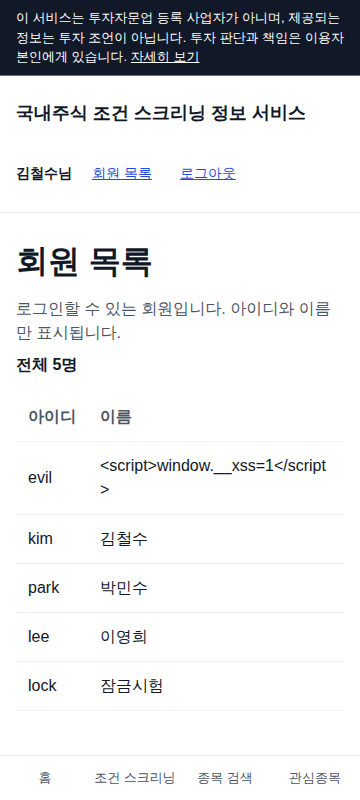
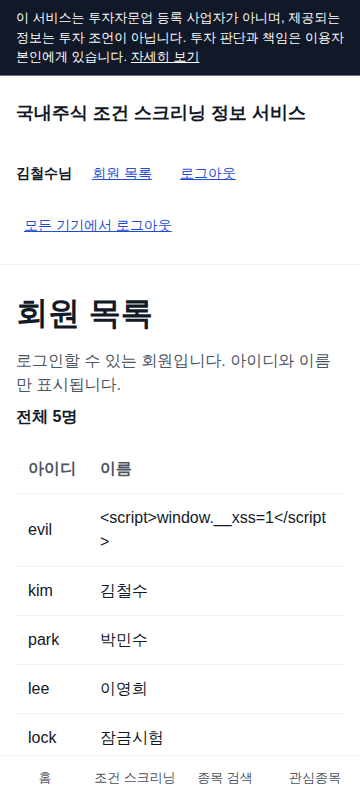
feat(auth): 모든 기기에서 로그아웃 버튼 (DEC-071)
Claude-Session: https://claude.ai/code/session_01QuiKfc1fybZYPtPuWCxdtT

diff --git a/frontend/src/app/auth/logout-all/route.ts b/frontend/src/app/auth/logout-all/route.ts
@@ -1,0 +1,33 @@
+import { cookies } from "next/headers";
+import { apiLogoutAll } from "@/lib/auth/apiClient";
+import { authConfigProblem, authEnabled, sessionCookieName, sessionSecret } from "@/lib/auth/config";
+import { clearSessionCookie, json, nowSeconds } from "@/lib/auth/http";
+import { isSameOriginRequest } from "@/lib/auth/origin";
+import { verifySession } from "@/lib/auth/session";
+
+export const dynamic = "force-dynamic";
+
+/**
+ * "모든 기기에서 로그아웃"(DEC-071): 이 회원의 서버 쪽 세션을 전부 취소하고(30일 유지 로그인 포함) 이 브라우저의 쿠키도 지운다.
+ * 일반 로그아웃과 달리 **서버 취소가 확인된 경우에만** 쿠키를 지우고 성공을 알린다 — 실패했는데 성공처럼 보이면 다른 기기가 로그인된 채 남기 때문이다.
+ * 서버 장애면 503(로그인은 그대로 두어 다시 시도할 수 있게 한다). 로그인하지 않았거나 이미 취소·만료된 세션이면 401.
+ * 같은 사이트 화면에서 보낸 요청만 받는다.
+ */
+export async function POST(request: Request) {
+  if (!authEnabled()) return json({ ok: false, code: "NOT_FOUND" }, 404);
+  if (authConfigProblem()) return json({ ok: false, code: "MISCONFIGURED" }, 503);
+  if (!isSameOriginRequest(request.headers)) return json({ ok: false, code: "FORBIDDEN" }, 403);
+  const store = await cookies();
+  const session = verifySession(store.get(sessionCookieName())?.value, sessionSecret(), nowSeconds());
+  if (!session) return json({ ok: false, code: "AUTH_REQUIRED" }, 401);
+  const count = await apiLogoutAll(session.uid, session.sid);
+  if (count === "invalid") {
+    const gone = json({ ok: false, code: "AUTH_REQUIRED" }, 401); // 이미 취소·만료된 로그인: 쿠키만 정리한다
+    clearSessionCookie(gone);
+    return gone;
+  }
+  if (count === null) return json({ ok: false, code: "SERVICE_UNAVAILABLE" }, 503);
+  const response = json({ ok: true, revoked_count: count });
+  clearSessionCookie(response);
+  return response;
+}

diff --git a/frontend/src/components/MemberMenu.tsx b/frontend/src/components/MemberMenu.tsx
@@ -13,6 +13,8 @@ const AUTH_BUILD = process.env.NEXT_PUBLIC_AUTH_ENABLED === "true";
 
 export function MemberMenu() {
   const [name, setName] = useState<string | null>(null);
+  const [notice, setNotice] = useState<string | null>(null);
+  const [busy, setBusy] = useState(false);
 
   useEffect(() => {
     if (!AUTH_BUILD) return undefined;
@@ -40,6 +42,25 @@ export function MemberMenu() {
     }
   }
 
+  async function logoutAll() {
+    if (busy) return;
+    if (!window.confirm(copy.auth.logoutAllConfirm)) return; // 실수로 누르는 것을 막는 확인
+    setBusy(true);
+    setNotice(null);
+    try {
+      const response = await fetch("/auth/logout-all", { method: "POST", credentials: "same-origin" });
+      if (response.ok) {
+        window.location.assign(new URL("/login", window.location.origin).toString());
+        return; // 화면이 바뀌므로 잠금은 그대로 둔다
+      }
+      // 서버 취소가 확인되지 않으면 성공처럼 보이지 않게 하고 로그인은 그대로 둔다(다시 시도 가능)
+      setNotice(response.status === 401 ? copy.auth.logoutAllInvalid : copy.auth.logoutAllFailed);
+    } catch {
+      setNotice(copy.auth.logoutAllFailed);
+    }
+    setBusy(false);
+  }
+
   if (!AUTH_BUILD || name === null) return null;
   return (
     <div className="member-menu" role="group" aria-label={copy.auth.memberMenuLabel}>
@@ -53,6 +74,14 @@ export function MemberMenu() {
       <button type="button" className="member-menu__logout" onClick={logout}>
         {copy.auth.logout}
       </button>
+      <button type="button" className="member-menu__logout" onClick={logoutAll} disabled={busy}>
+        {busy ? copy.auth.logoutAllBusy : copy.auth.logoutAll}
+      </button>
+      {notice ? (
+        <p className="member-menu__notice" role="alert">
+          {notice}
+        </p>
+      ) : null}
     </div>
   );
 }

diff --git a/frontend/src/lib/auth/apiClient.ts b/frontend/src/lib/auth/apiClient.ts
@@ -27,6 +27,7 @@ export type MembersResult =
 
 const LOGIN_TIMEOUT_MS = 65_000;
 const LOGOUT_TIMEOUT_MS = 8_000;
+const LOGOUT_ALL_TIMEOUT_MS = 30_000; // 잠든 API가 깨어나는 시간을 기다린다(실패를 성공으로 보이지 않기 위해 재시도는 하지 않는다)
 
 function apiBase(): string {
   return (process.env.NEXT_PUBLIC_API_BASE_URL ?? "").trim().replace(/\/+$/, "");
@@ -113,6 +114,25 @@ export async function apiLogout(uid: string, sessionId: string): Promise<boolean
     return response.status === 200;
   } catch {
     return false;
+  }
+}
+
+/** "모든 기기에서 로그아웃": 이 회원의 모든 서버 세션을 취소한다. 취소한 건수를 돌려주고, 이미 취소·만료된 세션이면 "invalid", 서버 장애는 null. 재시도하지 않는다(결과를 사용자에게 그대로 알린다). */
+export async function apiLogoutAll(uid: string, sessionId: string): Promise<number | "invalid" | null> {
+  try {
+    const response = await fetch(`${apiBase()}/api/v1/internal/auth/logout-all`, {
+      method: "POST",
+      headers: internalHeaders({ "X-Auth-User": uid }),
+      body: JSON.stringify({ user_id: uid, session_id: sessionId }),
+      cache: "no-store",
+      signal: AbortSignal.timeout(LOGOUT_ALL_TIMEOUT_MS),
+    });
+    if (response.status === 401) return "invalid";
+    if (response.status !== 200) return null;
+    const count = (((await readJson(response))?.data ?? null) as Record<string, unknown> | null)?.revoked_count;
+    return typeof count === "number" && Number.isInteger(count) && count >= 0 ? count : null;
+  } catch {
+    return null;
   }
 }
 

diff --git a/frontend/src/app/globals.css b/frontend/src/app/globals.css
@@ -2700,6 +2700,19 @@ main {
   font-weight: 600;
 }
 
+.member-menu__notice {
+  flex-basis: 100%;
+  margin: 0;
+  color: var(--color-semantic-error);
+  font-size: 13px;
+  line-height: 1.5;
+}
+
+.member-menu__logout:disabled {
+  opacity: 0.7;
+  cursor: progress;
+}
+
 .member-menu__link,
 .member-menu__logout {
   display: inline-flex;

diff --git a/tests/integration/test_auth_api_db.py b/tests/integration/test_auth_api_db.py
@@ -535,3 +535,60 @@ def test_deleting_member_removes_sessions(db, api):
     assert _admin(db, "SELECT count(*) FROM auth.user_sessions")[0][0] == 1
     _admin(db, "DELETE FROM auth.app_users WHERE username = 'kim'")
     assert _admin(db, "SELECT count(*) FROM auth.user_sessions")[0][0] == 0
+
+
+# ------------------------------------------------------------------ 모든 기기에서 로그아웃 (DEC-071)
+LOGOUT_ALL = "/api/v1/internal/auth/logout-all"
+
+
+def test_logout_all_revokes_every_session_of_the_member_only(db, api):
+    _add_user(db, "kim")
+    _add_user(db, "lee", "이영희")
+    a = _login_data(api, remember=True)
+    b = _login_data(api, remember=True)
+    c = _login_data(api)  # 8시간 세션도 포함
+    other = _login_data(api, username="lee", remember=True)
+    r = api.post(LOGOUT_ALL, json={"user_id": a["user_id"], "session_id": a["session_id"]}, headers=H)
+    assert r.status_code == 200 and r.json()["data"] == {"revoked_count": 3}
+    for s in (a, b, c):
+        assert _check(api, s["user_id"], s["session_id"]) is False
+        assert _sess_row(db, s["session_id"])[3] is True
+    assert _check(api, other["user_id"], other["session_id"]) is True  # 다른 회원은 그대로
+    # 새로 로그인하면 다시 쓸 수 있다
+    again = _login_data(api, remember=True)
+    assert _check(api, again["user_id"], again["session_id"]) is True
+
+
+def test_logout_all_needs_a_live_session_of_that_member(db, api):
+    _add_user(db, "kim")
+    _add_user(db, "lee", "이영희")
+    a = _login_data(api, remember=True)
+    b = _login_data(api, remember=True)
+    lee = _login_data(api, username="lee")
+    # 남의 세션 id를 내 id로 제시 → 거부, 아무것도 취소되지 않는다
+    r = api.post(LOGOUT_ALL, json={"user_id": a["user_id"], "session_id": lee["session_id"]}, headers=H)
+    assert r.status_code == 401 and r.json()["error"]["code"] == "INVALID_SESSION"
+    assert _check(api, a["user_id"], a["session_id"]) is True and _check(api, lee["user_id"], lee["session_id"]) is True
+    # 없는 세션
+    assert api.post(LOGOUT_ALL, json={"user_id": a["user_id"], "session_id": "99999999-9999-4999-8999-999999999999"}, headers=H).status_code == 401
+    # 이미 취소된 세션(로그아웃된 쿠키)으로는 다른 기기를 끊지 못한다
+    api.post(LOGOUT, json={"user_id": a["user_id"], "session_id": a["session_id"]}, headers=H)
+    assert api.post(LOGOUT_ALL, json={"user_id": a["user_id"], "session_id": a["session_id"]}, headers=H).status_code == 401
+    assert _check(api, b["user_id"], b["session_id"]) is True
+    # 만료된 세션·비활성 회원
+    _admin(db, "UPDATE auth.user_sessions SET created_at = now() - interval '31 days', expires_at = now() - interval '1 day' WHERE session_id = CAST(:s AS uuid)", s=b["session_id"])
+    assert api.post(LOGOUT_ALL, json={"user_id": b["user_id"], "session_id": b["session_id"]}, headers=H).status_code == 401
+    c = _login_data(api)
+    _admin(db, "UPDATE auth.app_users SET is_active = false WHERE username = 'kim'")
+    assert api.post(LOGOUT_ALL, json={"user_id": c["user_id"], "session_id": c["session_id"]}, headers=H).status_code == 401
+
+
+def test_logout_all_validation_and_internal_token(db, api):
+    _add_user(db, "kim")
+    a = _login_data(api)
+    body = {"user_id": a["user_id"], "session_id": a["session_id"]}
+    assert api.post(LOGOUT_ALL, json=body).status_code == 401  # 내부 토큰 필수
+    assert api.post(LOGOUT_ALL, json=body, headers={"X-Internal-Token": "wrong"}).status_code == 401
+    for bad in ({}, {"user_id": a["user_id"]}, {"session_id": a["session_id"]}, {**body, "extra": 1}, {"user_id": "x", "session_id": "y"}):
+        assert api.post(LOGOUT_ALL, json=bad, headers=H).status_code == 400, bad
+    assert _check(api, a["user_id"], a["session_id"]) is True  # 거부된 요청은 아무것도 바꾸지 않는다

diff --git a/services/public_api/api/internal_auth.py b/services/public_api/api/internal_auth.py
@@ -3,6 +3,7 @@
 - `POST /api/v1/internal/auth/login` : 아이디·비밀번호 확인. 실패는 이유와 관계없이 같은 401.
 - `POST /api/v1/internal/auth/session-check` : 이 세션이 취소·만료되지 않았고 회원이 아직 활성인지(웹이 5분마다 확인).
 - `POST /api/v1/internal/auth/logout` : 이 세션 하나를 서버에서 취소(DEC-070).
+- `POST /api/v1/internal/auth/logout-all` : 이 회원의 모든 세션 취소(DEC-071). 요청한 세션이 살아 있을 때만.
 - `GET  /api/v1/internal/members` : 로그인 가능한 회원(활성)의 아이디·이름 목록.
 
 모든 경로는 **강제 스위치와 무관하게** 항상 내부 토큰을 요구한다(로컬에서 스위치가 꺼져 있어도 열려 있지 않다).
@@ -27,6 +28,7 @@ from services.public_api.auth.service import (
     check_session_user,
     create_session,
     list_active_members,
+    revoke_all_sessions,
     revoke_session,
 )
 from services.public_api.auth.throttle import allow_login_attempt
@@ -36,6 +38,7 @@ from services.public_api.errors import ApiError
 from services.public_api.schemas.auth import (
     LoginData,
     LoginRequest,
+    LogoutAllData,
     LogoutData,
     LogoutRequest,
     MemberItem,
@@ -117,6 +120,14 @@ def session_check(body: SessionCheckRequest, db: Session = Depends(get_auth_db))
 @router.post("/auth/logout", response_model=Envelope[LogoutData])
 def logout(body: LogoutRequest, db: Session = Depends(get_auth_db)) -> Envelope[LogoutData]:
     return Envelope[LogoutData](meta=_meta(), data=LogoutData(revoked=revoke_session(db, body.user_id, body.session_id)))
+
+
+@router.post("/auth/logout-all", response_model=Envelope[LogoutAllData])
+def logout_all(body: LogoutRequest, db: Session = Depends(get_auth_db)) -> Envelope[LogoutAllData]:
+    count = revoke_all_sessions(db, body.user_id, body.session_id)
+    if count is None:  # 이미 취소·만료된 세션이거나 남의 세션: 아무것도 하지 않는다
+        raise ApiError(status_code=401, code="INVALID_SESSION", message="유효한 로그인이 아닙니다.")
+    return Envelope[LogoutAllData](meta=_meta(), data=LogoutAllData(revoked_count=count))
 
 
 @router.get("/members", response_model=Envelope[MembersData])

diff --git a/services/public_api/auth/service.py b/services/public_api/auth/service.py
@@ -213,6 +213,28 @@ def revoke_session(session: Session, user_id: str, session_id: str) -> bool:
     return done is not None
 
 
+def revoke_all_sessions(session: Session, user_id: str, session_id: str) -> int | None:
+    """"모든 기기에서 로그아웃"(DEC-071): 이 회원의 유효한 세션을 전부 취소하고 취소한 건수를 돌려준다.
+    요청한 세션 자체가 이 회원의 살아 있는 세션일 때만 실행한다(이미 취소·만료된 쿠키로는 못 한다). 아니면 None."""
+    live = session.execute(
+        text(
+            "SELECT 1 FROM auth.user_sessions s JOIN auth.app_users u ON u.user_id = s.user_id "
+            "WHERE s.session_id = CAST(:sid AS uuid) AND s.user_id = CAST(:uid AS uuid) "
+            "AND s.revoked_at IS NULL AND s.expires_at > now() AND u.is_active"
+        ),
+        {"uid": user_id, "sid": session_id},
+    ).first()
+    if live is None:
+        session.rollback()
+        return None
+    result = session.execute(
+        text("UPDATE auth.user_sessions SET revoked_at = now() WHERE user_id = CAST(:uid AS uuid) AND revoked_at IS NULL"),
+        {"uid": user_id},
+    )
+    session.commit()
+    return result.rowcount or 0
+
+
 def list_active_members(session: Session, limit: int = 500) -> list[dict[str, str]]:
     """회원 목록: 활성 회원의 아이디·이름만(비밀번호 해시·접속 시각·상태 등은 읽지도 않는다)."""
     rows = (

diff --git a/services/public_api/schemas/auth.py b/services/public_api/schemas/auth.py
@@ -46,6 +46,10 @@ class SessionCheckData(BaseModel):
     display_name: str | None = None
 
 
+class LogoutAllData(BaseModel):
+    revoked_count: int  # 이번 요청으로 취소한 세션 수(현재 기기 포함)
+
+
 class MemberItem(BaseModel):
     username: str
     display_name: str

diff --git a/docs/harness/decisions.md b/docs/harness/decisions.md
@@ -81,3 +81,4 @@
 | DEC-068 | 2026-10-05 | 운영 투자자별 수급 표시(DEC-049/054 후속) | 사용자가 운영 서버에서도 투자자 항목을 보길 원함. 조사 결과: KRX 이용약관은 자동 수집·복제·배포를 금지하고 2025-12-27부터 정보데이터시스템이 로그인 회원제(Data Marketplace)로 바뀌어 스크래핑 불가. 증권사(KIS) 값을 다른 회원에게 보여 주는 것은 재배포 해당 여부 약관 미확인. | **사용자가 방안 4(소유자 본인 한 명만 보기) 선택.** 소유자 PC가 본인 KIS 앱키로 수집(`scripts/collect_investor_flow.py`)→Neon `public_serving.investor_flow_daily`(0016)→API `GET /api/v1/internal/owner/stocks/{code}/investor`(내부 토큰+소유자 아이디 확인)→웹은 소유자 로그인일 때만 표(다른 회원은 "준비 중" 유지). 앱키는 PC에만 둔다. 제3자 제공이 없어 약관 위험을 피한다. 당일 행은 KST 20:00 이후에만 적재(확정 시각 미확인). 값 단위(주·백만원)는 DEC-054와 같이 실제 앱 대조 필요. | 사용자 응답 (2026-10-05, "4번으로 진행해 주세요") | Medium | `docs/ops/login-rollout-runbook.md` §7, `docs/qa/2026-10-05-owner-investor-test-result.md` |
 | DEC-069 | 2026-10-05 | 로그인 화면 "아이디/비밀번호 자동 저장" 요청(DEC-067 보완) | 사용자가 로그인 정보 자동 저장 기능을 요청. 앱이 비밀번호를 저장하면(localStorage·쿠키 등 JS가 읽는 저장소) XSS 한 번으로 탈취되고, 서버가 비밀번호 원문을 되돌려 줄 수도 없다(argon2 해시). | **아이디만 "아이디 저장" 체크박스로 localStorage에 저장하고, 비밀번호는 브라우저·OS 비밀번호 관리자에 맡긴다**: ① 폼 `autocomplete`(username/current-password) ② 로그인 성공 시 Credential Management API(`PasswordCredential`)로 저장을 제안(최대 1초 대기, 미지원 브라우저는 무시) ③ 저장 아이디는 형식 검증·변조 값 삭제. 앱 쪽 비밀번호 저장·"자동 로그인(세션 연장)"은 하지 않았다(세션 8시간·5분 재확인 결정 DEC-067 유지). 자동 로그인이 필요하면 별도 결정. | 사용자 요청(2026-10-05) + 보안 판단(20년차 기준) | Low | `frontend/src/lib/auth/savedUsername.ts`, `frontend/src/components/LoginForm.tsx`, `docs/qa/2026-10-05-login-test-result.md` §5 |
 | DEC-070 | 2026-10-05 | 자동 로그인 "로그인 상태 유지 30일"(DEC-067·069 보완) | 사용자가 "자동 로그인 30일 기준"을 요청. 서명만 있는 상태 없는 쿠키를 30일로 늘리면 로그아웃·분실·탈취 때 **취소할 수 없다**(DEC-067의 8시간 한계가 30일로 커짐). | **선택 사항(기본 해제 체크박스 "로그인 상태 유지(30일)") + 서버 쪽 세션 목록으로 구현.** ① 체크 시에만 절대 30일(사용해도 연장 없음), 미체크는 기존 8시간 ② 로그인마다 `auth.user_sessions` 행(0017) 생성, 쿠키(v2)에 `sid`·`rm` ③ 5분마다 API가 "세션 미취소·미만료 + 회원 활성"을 확인 ④ 로그아웃=그 세션만 서버에서 취소(다른 기기 유지), 비밀번호 변경·회원 비활성화=그 회원 전 세션 취소, 관리자 `revoke-sessions`/`sessions`/`purge-sessions` ⑤ `auth_service`는 수명 연장·소유자 변경·삭제 불가(`expires_at`·`user_id` UPDATE 권한 없음, DB 제약 최대 31일) ⑥ 세션 수명은 서버가 정한다(요청으로 못 바꿈). **알려진 한계(문서화)**: 취소는 복사된 쿠키에 대해 최대 5분 뒤 반영, 로그아웃 때 API가 잠들어 취소 요청이 실패하면(`revoked:false`) 쿠키는 지워도 서버 세션은 만료·관리자 취소 전까지 살아 있음, "모든 기기 로그아웃" 화면 버튼은 없음(관리자 명령만). 배포 시 옛 형식(v1) 쿠키는 거부되어 모두 한 번 다시 로그인. | 사용자 응답 (2026-10-05, "자동 로그인 30일 기준입니다") | Medium | `db/alembic/versions/0017_create_auth_user_sessions.py`, `services/public_api/auth/service.py`, `frontend/src/lib/auth/session.ts`, `docs/qa/2026-10-05-login-test-result.md` §6 |
+| DEC-071 | 2026-10-05 | "모든 기기에서 로그아웃" 버튼(DEC-070 보완) | 사용자가 DEC-070 한계 3번(화면 버튼 없음)에 대해 버튼이 필요하다고 응답. | **회원 메뉴에 "모든 기기에서 로그아웃" 버튼 추가.** 확인창(실수 방지) → `POST /auth/logout-all` → API `POST /internal/auth/logout-all`이 이 회원의 모든 서버 세션(8시간·30일 유지 모두, 현재 기기 포함)을 취소. 요청한 세션이 **살아 있을 때만** 실행(이미 취소·만료된 쿠키 복사본으로는 불가, 401), 같은 사이트 요청만(403). 일반 로그아웃과 달리 **서버 취소가 확인된 경우에만** 쿠키를 지우고 성공 처리 — 서버 장애면 오류 안내(503)하고 로그인은 그대로 둬 재시도(실패를 성공처럼 보이게 하지 않음). 다른 회원 세션 영향 없음. | 사용자 응답 (2026-10-05) | Low | `services/public_api/auth/service.py`(`revoke_all_sessions`), `frontend/src/app/auth/logout-all/route.ts`, `frontend/src/components/MemberMenu.tsx`, `docs/qa/2026-10-05-login-test-result.md` §7 |

diff --git a/docs/qa/2026-10-05-login-test-result.md b/docs/qa/2026-10-05-login-test-result.md
@@ -68,8 +68,23 @@
 **알려진 한계 / 미확인**
 1. 이미 복사된 쿠키는 취소 후 **최대 5분** 동안 통과한다(확인 주기). 더 짧게 하려면 확인 주기를 줄여야 하며 API(Neon) 호출이 늘어난다.
 2. 로그아웃 때 API가 잠들어 있거나 장애면 서버 세션 취소가 실패한다(`revoked:false`). 쿠키는 지워지지만 복사본은 만료·관리자 취소 전까지 유효 → 의심 시 `revoke-sessions`.
-3. "모든 기기에서 로그아웃" 버튼은 없다(관리자 명령만). 필요하면 별도 결정.
+3. "모든 기기에서 로그아웃" 버튼 — §7에서 추가함(DEC-071).
 4. 30일 뒤 만료는 서버 시계 기준이며, Render·Neon 실서버의 시계 오차·콜드스타트 중 확인 지연은 미확인.
 5. 실제 모바일 기기·브라우저 종료 후 재방문(쿠키 영속성), 시크릿 모드 동작은 자동화 브라우저로만 확인(영속 쿠키 속성·만료값은 확인, 실기기 재방문은 미확인).
 6. 운영(Render·Neon)에서의 마이그레이션 0017 적용·권한은 미확인(임시 DB에서 `check` 명령으로 권한 점검 통과).
 7. AI는 운영 배포·Neon 변경을 하지 않았다.
+
+## 7. 추가: "모든 기기에서 로그아웃" 버튼 (DEC-071)
+회원 메뉴 버튼 → 확인창 → 이 회원의 **모든 서버 세션**(8시간·30일 유지, 현재 기기 포함) 취소 → 로그인 화면. 요청한 세션이 살아 있을 때만 실행, 같은 사이트 요청만 허용. 일반 로그아웃과 달리 **서버 취소가 확인된 경우에만** 쿠키를 지우고 성공 처리하며, 장애면 오류 안내와 함께 로그인을 유지해 재시도하게 한다(성공처럼 보이는 거짓 안내 방지).
+
+| 구분 | 건수 | 결과 |
+|---|---|---|
+| 통합 `test_auth_api_db.py`(+3): 한 회원의 세션 전부 취소(3건, 8시간 포함)·다른 회원 영향 없음·다시 로그인 가능, 남의 세션 id·없는 id·이미 취소된 쿠키·만료·비활성 회원은 401이며 아무것도 취소되지 않음, 내부 토큰 필수·잘못된 입력 400·거부 시 상태 불변 | 39 | 통과 |
+| E2E 섹션 J(19): 360/1280 메뉴 두 버튼·44px·가로 넘침·axe, 확인창 문구·취소 시 변화 없음, **서버 취소 실패(503) 시 오류 안내·로그인 유지·세션 그대로·재시도 가능**, 실제 실행(이 기기 로그인 화면·쿠키 삭제·park 세션 0건·lee 그대로), 다른 기기 서버 확인에서 401·다른 회원 200, 재로그인 정상, 로그인 없이 401·다른 사이트 403(세션 유지)·정상 호출 `revoked_count`, 이미 취소된 쿠키로 호출 401 | 19 | 통과 |
+| E2E 전체(A–J) 재실행 | 240 중 240 | 통과 |
+| 회귀: 백엔드 전체 1059 통과·1 건너뜀 / 프런트 115 / tsc·eslint·ruff·금지표현 | — | 통과 |
+화면: `docs/qa/2026-10-05/member-menu-360.png`(360px에서 줄바꿈되어 표시, 가로 넘침 없음).
+
+**시험 중 발견·수정**: 이미 취소된 세션으로 호출했을 때 웹이 401이 아니라 503(서버 장애)로 응답하던 오류 → 401과 서버 장애를 구분하도록 수정(401은 쿠키만 정리).
+
+**한계 / 미확인**: 다른 기기는 최대 5분 뒤 반영(확인 주기). 취소 요청은 잠든 API가 깨어나길 최대 30초 기다리며 재시도하지 않는다(장애면 안내 후 사용자가 재시도). 이 이벤트는 `login_audit`에 기록되지 않는다(감사 표의 결과값 제약 때문; 필요하면 별도 결정). 실서버·실기기 확인은 미수행. AI는 운영 배포를 하지 않았다.

diff --git a/docs/ops/login-rollout-runbook.md b/docs/ops/login-rollout-runbook.md
@@ -75,3 +75,8 @@
 - 반영 지연: 로그아웃·비활성화·세션 취소는 서버에 즉시 기록되지만, 이미 복사된 쿠키는 서버가 5분마다 확인할 때 거부된다(최대 5분).
 - 로그아웃이 서버 세션 취소에 실패한 경우(API가 잠든 상태 등)에도 이 브라우저의 쿠키는 지워진다. 분실·탈취가 의심되면 `revoke-sessions <아이디>`를 실행한다.
 - 롤백: Web `AUTH_REQUIRED=false`(로그인 끔). `user_sessions` 표는 남겨도 무해.
+
+## 10. "모든 기기에서 로그아웃" (DEC-071)
+- 회원 메뉴 버튼(확인창 후 실행). 이 회원의 모든 기기·30일 유지 로그인을 서버에서 취소하고 이 기기도 로그인 화면으로 이동한다. 다른 기기는 **최대 5분** 안에 로그아웃된다(서버 확인 주기).
+- 서버(API)가 잠들어 있거나 장애여서 취소가 확인되지 않으면 "하지 못했습니다" 안내가 뜨고 로그인은 유지된다 → 잠시 후 다시 누른다. 급하면 관리자가 `revoke-sessions <아이디>`.
+- 쿠키 복사본이 이미 취소된 상태에서는 이 버튼으로 다른 기기를 끊을 수 없다(보안상 살아 있는 세션만 가능).
